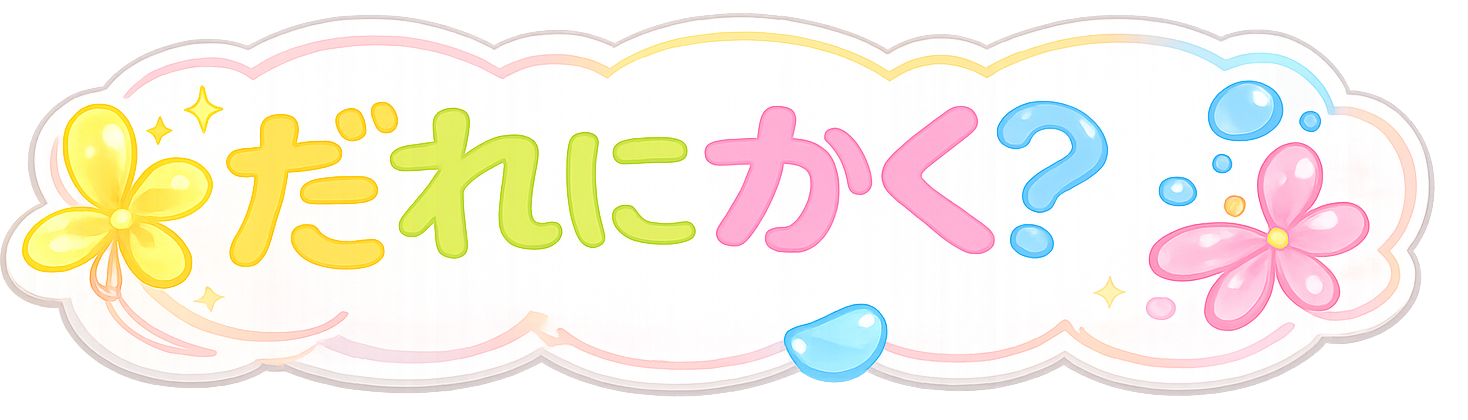
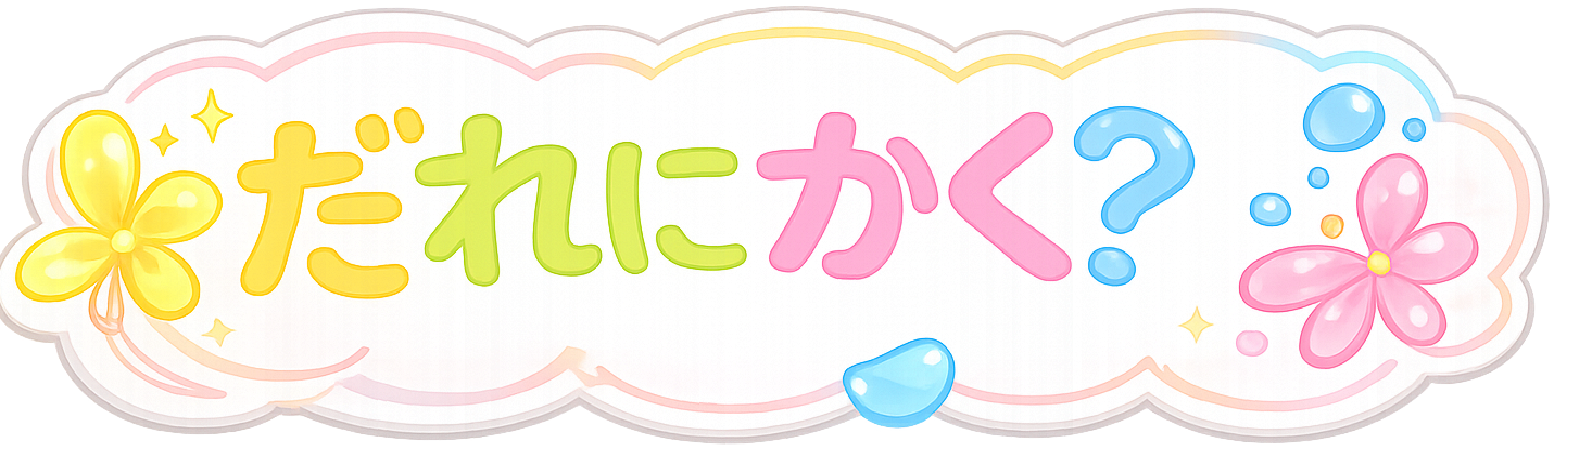
Add files via upload

diff --git a/style.css b/style.css
@@ -118,7 +118,7 @@ button {
 /* ===== 見出し・共通画像ボタン ===== */
 
 .heading-img {
-  width: 220px;
+  width: 280px;
   display: block;
   margin: 0 auto 18px;
 }
@@ -171,8 +171,8 @@ button {
 }
 
 .recipient-btn {
-  width: 90px;
-  height: 90px;
+  width: 72px;
+  height: 72px;
   background: rgba(255, 255, 255, 0.28);
   border: 2px solid rgba(255, 255, 255, 0.78);
   border-radius: 999px;
@@ -195,12 +195,12 @@ button {
 }
 
 .recipient-face {
-  font-size: 32px;
+  font-size: 26px;
   line-height: 1;
 }
 
 .recipient-name {
-  font-size: 18px;
+  font-size: 16px;
   color: #7e7096;
   font-weight: 900;
   margin-top: 2px;
@@ -231,12 +231,12 @@ button {
 }
 
 .paper-preview {
-  width: 78%;
-  max-width: 320px;
-  min-height: 360px;
+  width: 70%;
+  max-width: 280px;
+  min-height: 300px;
   aspect-ratio: 1 / 1.15;
   margin: 0 auto;
-  padding: 32px 20px 20px 20px;
+  padding: 28px 18px 18px 18px;
   position: relative;
   overflow: hidden;
   border-radius: 26px;
@@ -391,6 +391,35 @@ button {
   cursor: pointer;
   transition: transform 0.08s ease, background 0.12s ease;
 }
+#screen4.screen.active {
+  height: 100vh;
+  display: flex;
+  flex-direction: column;
+  overflow: hidden;
+  padding-bottom: 10px;
+}
+
+#selectedPaperPreview {
+  flex-shrink: 0;
+  margin-bottom: 10px;
+}
+
+#screen4 .image-btn-row {
+  flex-shrink: 0;
+  margin-top: 10px;
+}
+
+#stampArea {
+  flex-shrink: 0;
+  margin: 10px 0 10px;
+}
+
+#hiraganaArea {
+  flex: 1;
+  overflow-y: auto;
+  -webkit-overflow-scrolling: touch;
+  padding-bottom: 14px;
+}
 
 .hira-btn:active {
   transform: scale(0.96);
@@ -410,7 +439,37 @@ button {
 .small-hira {
   font-size: 22px;
 }
+#bigChar{
+  position: fixed;
+  top: 40%;
+  left: 50%;
+  transform: translate(-50%, -50%);
+  font-size: 120px;
+  font-weight: 900;
+  color: #ff7aa8;
+  pointer-events: none;
+  opacity: 0;
+  z-index: 999;
+}
 
+.bigChar-show{
+  animation: popChar 0.5s ease;
+}
+
+@keyframes popChar{
+  0%{
+    transform: translate(-50%, -50%) scale(0.3);
+    opacity: 0;
+  }
+  40%{
+    transform: translate(-50%, -50%) scale(1.2);
+    opacity: 1;
+  }
+  100%{
+    transform: translate(-50%, -50%) scale(1);
+    opacity: 0;
+  }
+}
 /* ===== おてがみ一覧 ===== */
 
 .letter-list {

diff --git a/script.js b/script.js
@@ -238,6 +238,7 @@ function renderHiragana() {
 }
 
 function addChar(char) {
+  const beforeText = letterText;
 
   // 濁点
   if (char === "゛") {
@@ -288,10 +289,29 @@ function addChar(char) {
     const paperRect = paper.getBoundingClientRect();
 
     if (previewRect.bottom > paperRect.bottom - 36) {
-      letterText = letterText.slice(0, -1);
+      letterText = beforeText;
       updateLetterPreview();
+      return;
+    }
+
+    // 実際に追加・変換された最後の1文字をポン表示
+    if (letterText !== beforeText && letterText.length > 0) {
+      showBigChar(letterText.slice(-1));
     }
   });
+}
+function showBigChar(char){
+
+  const el = document.getElementById("bigChar");
+
+  el.textContent = char;
+
+  el.classList.remove("bigChar-show");
+
+  void el.offsetWidth;
+
+  el.classList.add("bigChar-show");
+
 }
 function addNewLine() {
   letterText += "\n";

diff --git a/index.html b/index.html
@@ -49,6 +49,7 @@
 </section>
 
  <section id="screen4" class="screen">
+    <div id="bigChar"></div>
   <div id="selectedPaperPreview" class="paper-preview">
     <img id="selectedPaperImg" class="paper-bg-img" src="" alt="">
     <div id="letterPreview" class="letter-preview"></div>
